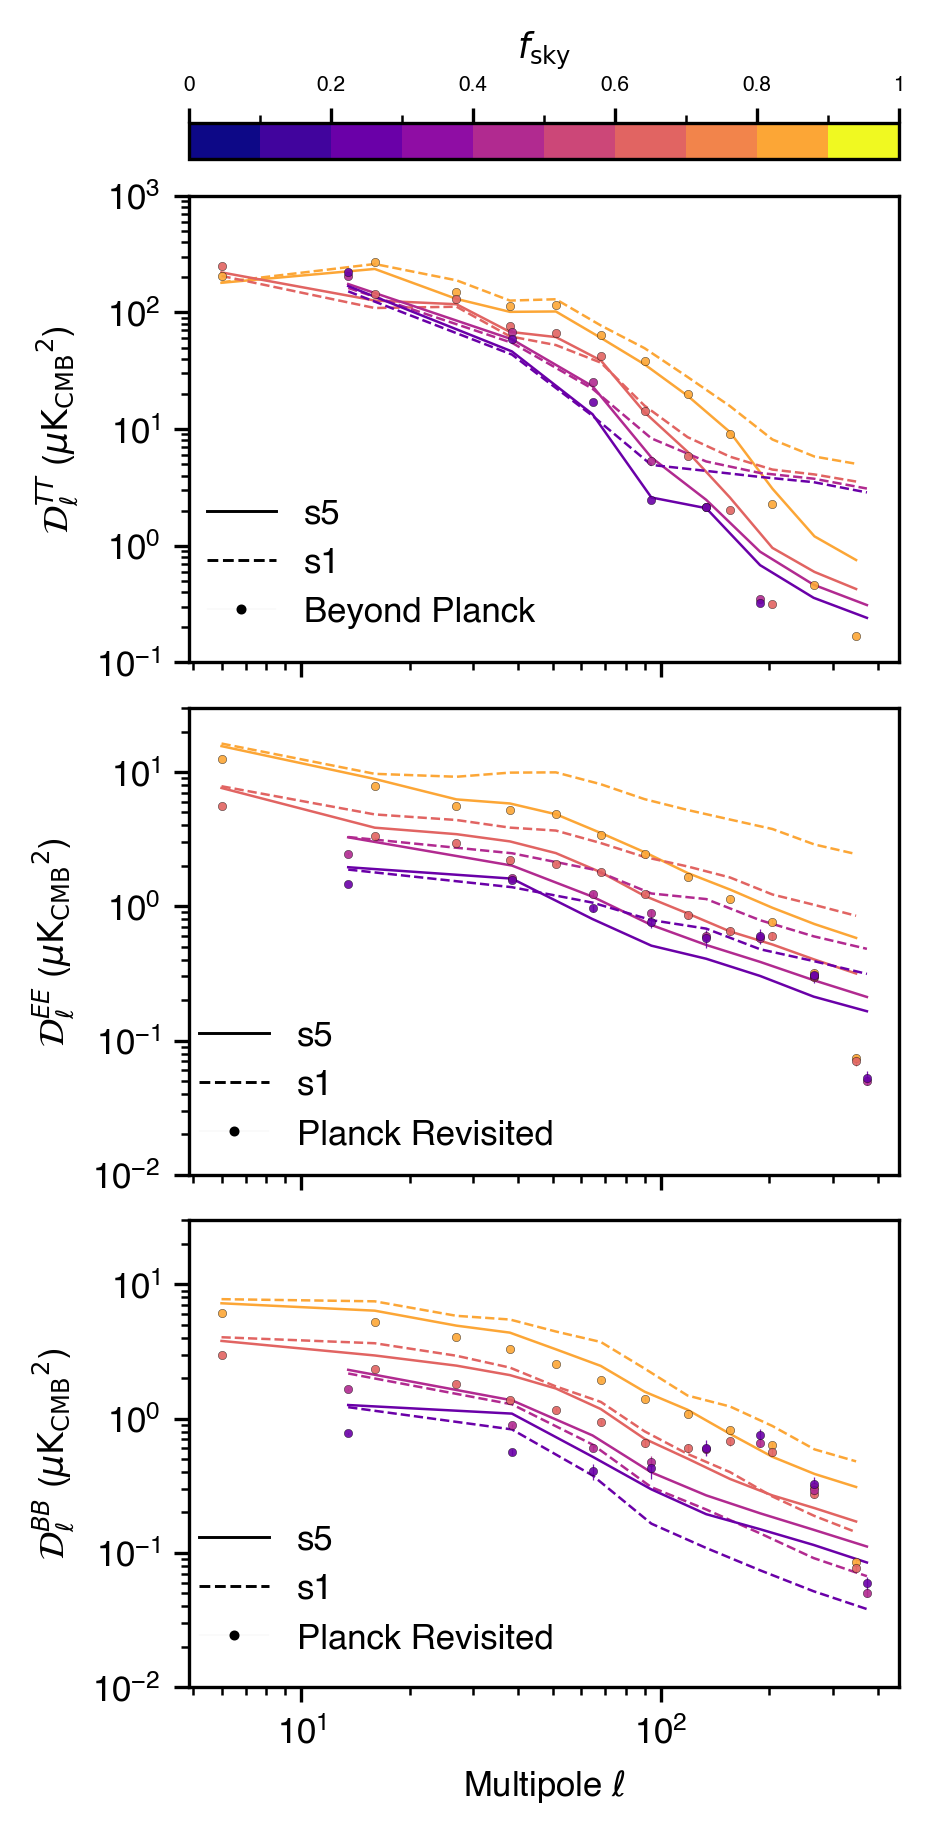
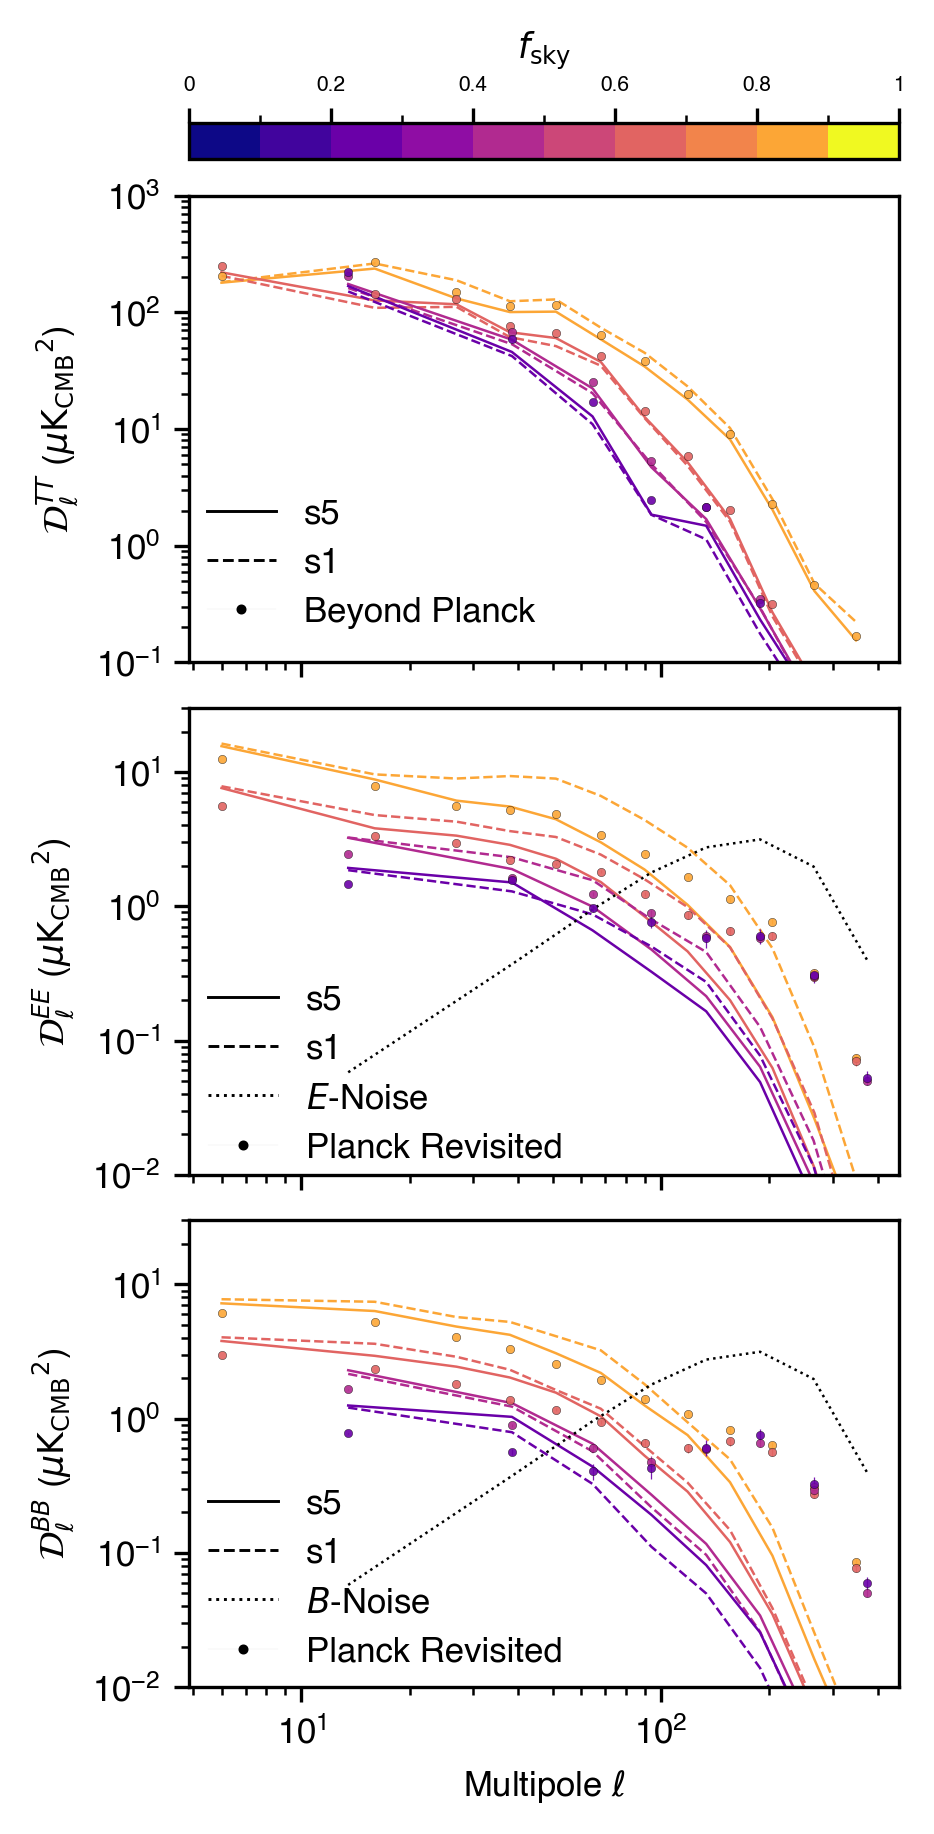
Update on Overleaf.

diff --git a/main.tex b/main.tex
@@ -603,7 +603,7 @@ We do not use the Planck Galactic masks for the synchrotron power spectra valida
 \begin{figure}
    \centering
    \includegraphics[width=0.48\textwidth]{figures/Dlcomp_PySM3-4_s5_vs_BPPR_SYNC.png}
-    \caption{Figure showing comparison of power spectra of the PySM models s5 and s1 with observation on different sky fractions. The spectra obtained for models s4, s6 and s7 are similar to that of s5, so we don't show them here. The $TT$ power spectrum comparison is done with synchrotron intensity map from BeyondPlanck release 1 \citep{Andersen:2023} at 30 GHz with $2^\circ$ beam. The $EE$ and $BB$ power spectra are compared with Planck Revisited \citep{Delabrouille:2024} polarized synchrotron map at 30\,GHz with $1^\circ$ beam. The $EE$ and $BB$ spectra for observations are debiased for noise, computed from 200 simulations.}
+    \caption{Figure showing comparison of power spectra of the PySM models s5 and s1 with observation on different sky fractions. The spectra obtained for models s4, s6 and s7 are similar to that of s5, so we don't show them here. The $TT$ power spectrum comparison is done with synchrotron intensity map from BeyondPlanck release 1 \citep{Andersen:2023} at 30 GHz with $2^\circ$ beam. The $EE$ and $BB$ power spectra are compared with Planck Revisited \citep{Delabrouille:2024} polarized synchrotron map at 30\,GHz with $1^\circ$ beam. The $EE$ and $BB$ spectra for observations are debiased for noise, computed from 200 simulations and are also shown in the figure. }
    \label{fig:Dl_sync_galmask}
 \end{figure}
 
@@ -613,7 +613,9 @@ We also use the Planck Revisited point source mask to mask out the brightest poi
 % For this validation test, 
 %do not use a pseudo-$C_\ell$ estimator as the synchrotron signal is not statistically isotropic, and we correct for the partial sky by naively dividing by an $f_{\rm sky}$ factor.
 
-The $TT$, $EE$ and $BB$ power spectra comparisons for model \texttt{s5} are shown in Figure~\ref{fig:Dl_sync_galmask}. The comparison for models \texttt{s4}, \texttt{s6} and \texttt{s7} have nearly identical results, so we only show the results for model \texttt{s5}. \sg{The $TT$ power spectra for all sky fractions, for all models, show excellent agreement with the BeyondPlanck synchrotron temperature power spectra, till $\ell \sim 100$. For polarization $E$ modes, we find a good agreement with observations for all but the 20 \% sky fraction.} \sg{For 20 \% sky fraction, at multipoles greater than the injection scale $\ell_* \sim 36$, the model underestimates the $E$-mode power.}
+The $TT$, $EE$ and $BB$ power spectra comparisons for models \texttt{s5} \sg{and \texttt{s1}} are shown in Figure~\ref{fig:Dl_sync_galmask}. The comparison for models \texttt{s4}, \texttt{s6} and \texttt{s7} have nearly identical results, so we only show the results for model \texttt{s5}. \sg{The $TT$ power spectra for all sky fractions, for all models, show excellent agreement with the BeyondPlanck synchrotron temperature power spectra. For polarization $E$ and $B$ modes, model \texttt{s5} show good agreement in the multipole range where 
+
+For polarization $E$ modes, we find a good agreement with observations for all but the 20 \% sky fraction.} \sg{For 20 \% sky fraction, at multipoles greater than the injection scale $\ell_* \sim 36$, the model underestimates the $E$-mode power.}
 % So, it is reasonable to argue that for synchrotron temperature there is excellent agreement for all but the brightest parts of the sky, where the comparison is harder to make at 30\,GHz. 
 For $BB$ spectrum, the PySM model has slightly higher power, for $\ell < 100$. The difference increases at smaller sky fractions. However, such a discrepancy is somewhat expected as we are considering multipoles that are far from the injection scale, $\ell_*\sim36$.
 % In fact, some of the features observed in the LFI 30 GHz spectra are not found in the pysm spectra as they are by construction generated to have a power law shape.
